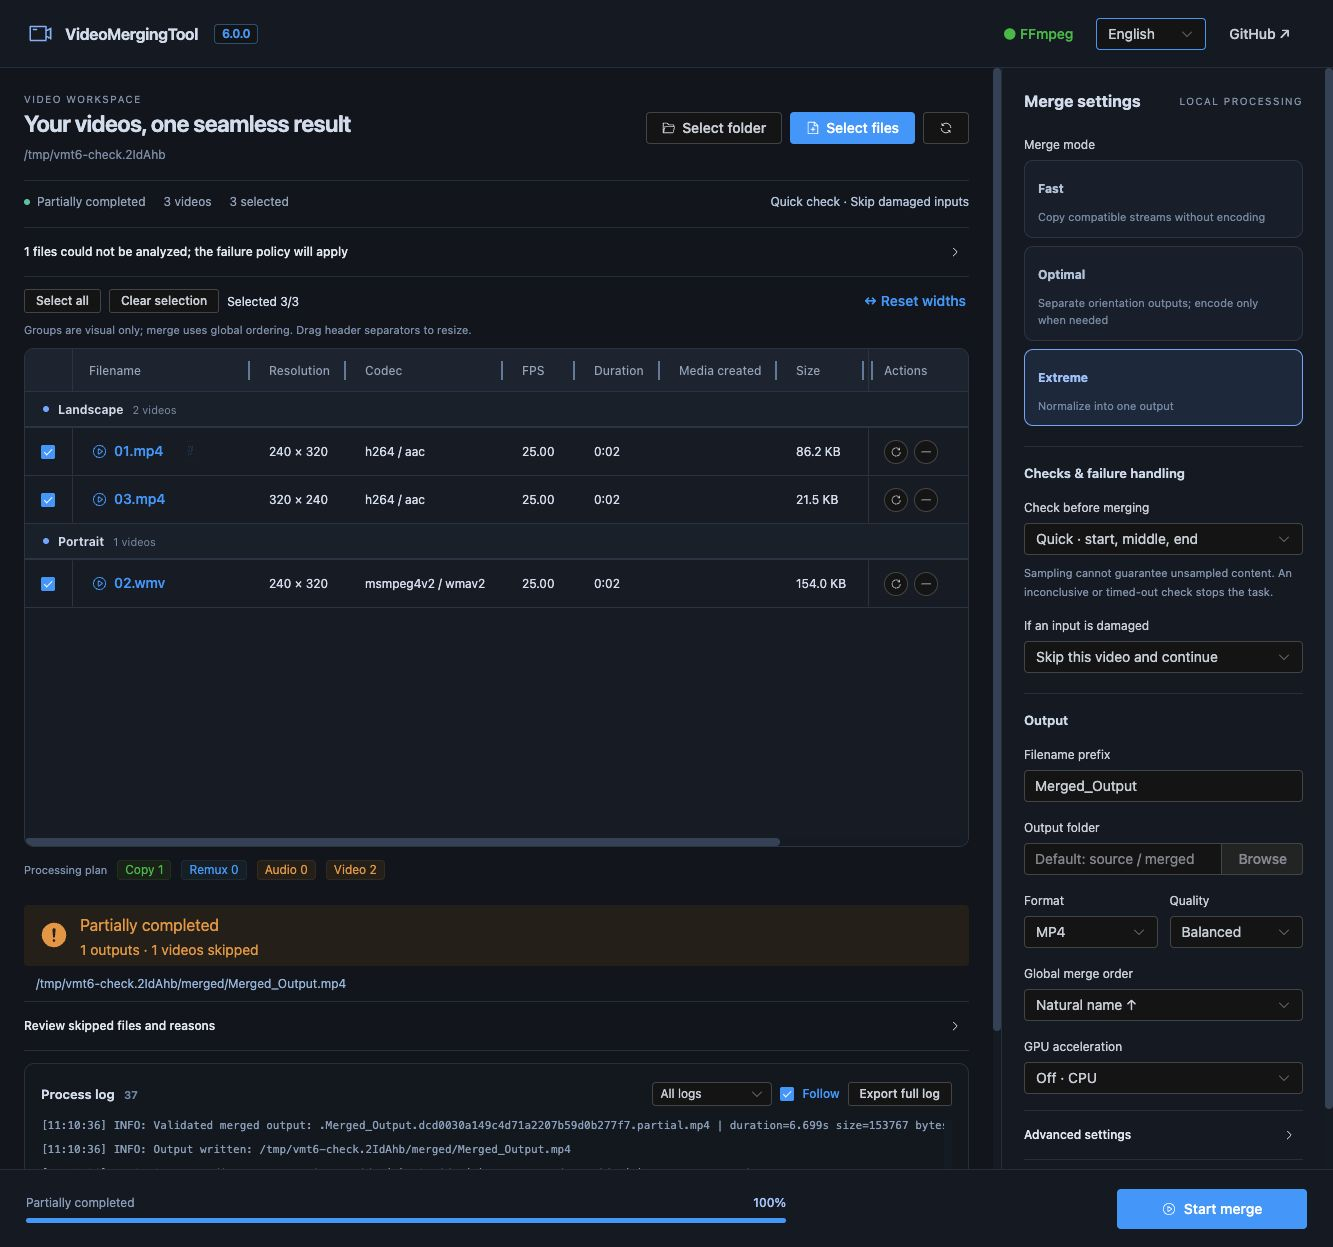
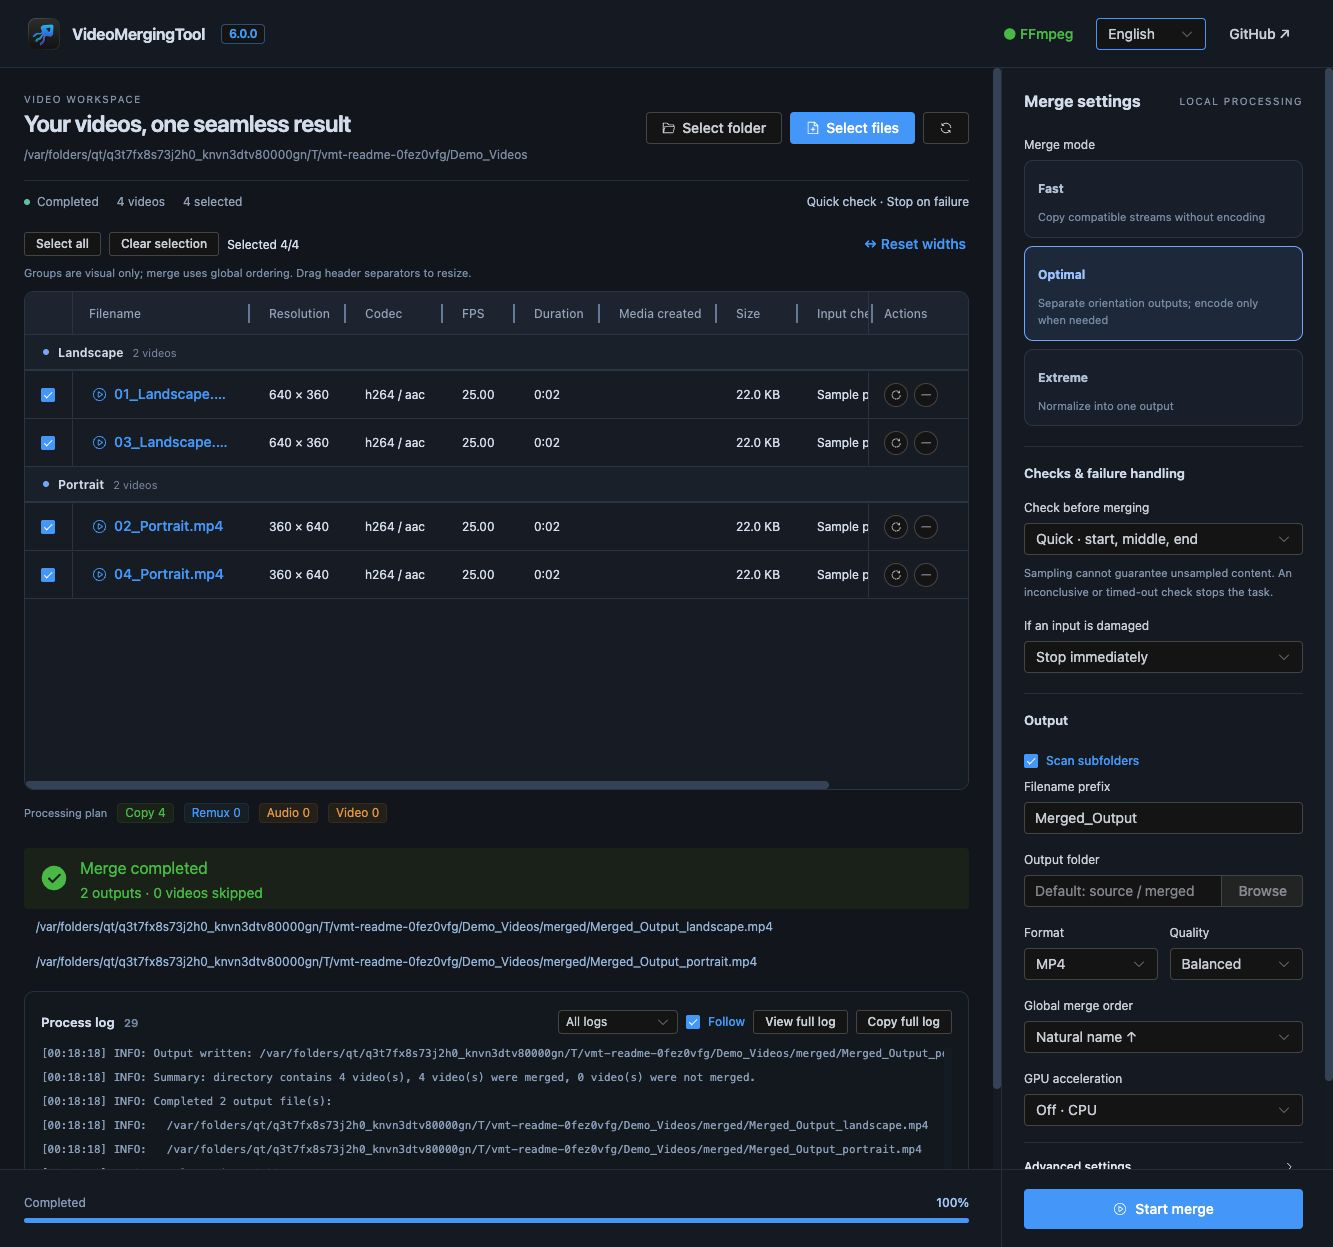
docs: refresh 6.0.0 README screenshots and document development fixes
Replace Chinese and English screenshots with actual demo scans and completed merges showing the original icon, clipboard controls, Output settings and aligned footer. Document fixes and mark 6.0.0 as under validation without changing its version or creating a Release.

Validation: 153 Python tests, 6 frontend tests, frontend build and whitespace checks pass.

diff --git a/README.en.md b/README.en.md
@@ -20,7 +20,7 @@
 
 VideoMergingTool helps you combine video clips into longer videos without uploading your files anywhere. It is designed for everyday desktop use: install the app, choose a folder or specific video files, review the detected videos, pick a merge mode, and start.
 
-Current version: `6.0.0`. See the [6.0.0 release notes (Chinese)](docs/releases/v6.0.0.md) and download installers from the [Releases page](https://github.com/yibailiu/VideoMergingTool/releases).
+Current development version: `6.0.0` (fixes under validation; version unchanged). See the [6.0.0 notes (Chinese)](docs/releases/v6.0.0.md). Published installer availability is shown on the [Releases page](https://github.com/yibailiu/VideoMergingTool/releases).
 
 Version 6 rebuilds the desktop UI with Vue 3, Element Plus, and AG Grid Community. It adds sampled/full input checks and an explicit stop-or-skip policy for damaged videos. See [6.0.0 notes](docs/6.0.0.md) for architecture and development details.
 
@@ -28,7 +28,7 @@ The packaged Windows and macOS apps include FFmpeg and FFprobe, so normal users 
 
 ## What It Does
 <p align="center">
-  <img src="assets/screenshots/screenshot_6_en.png" width="960" alt="VideoMergingTool 6.0.0 workspace and task result">
+  <img src="assets/screenshots/screenshot_6_en.png" width="960" alt="Updated 6.0.0 workspace with the original app icon, full-log copying, subfolder scanning under Output, and aligned progress bar">
 </p>
 
 - Scans a folder or lets you select one or more specific videos; supports `mp4`, `mkv`, `mov`, `avi`, `ts`, `m4v`, `flv`, `webm`, and `wmv`
@@ -42,7 +42,7 @@ The packaged Windows and macOS apps include FFmpeg and FFprobe, so normal users 
 - Lets you choose output folder, temp folder, language, merge mode, GPU option, and whether to keep temp files
 - Shows complete process logs and progress inside the app window
 - Offers metadata, sampled, or full decode checks before merging; a sampled pass does not guarantee the entire video is undamaged
-- Can stop on damaged inputs or skip them and continue, with a partial-completion result, skipped-file reasons, and full log export
+- Can stop on damaged inputs or skip them and continue, with partial-completion results, skipped-file reasons, full-log clipboard copying, and a selectable full-log view
 - Runs locally in a desktop window, without opening an external browser
 
 ## Download

diff --git a/README.md b/README.md
@@ -20,7 +20,7 @@
 
 VideoMergingTool 用来把多个视频批量合并成更长的视频。它面向普通桌面用户设计：安装应用，选择视频文件夹或直接选择若干视频，确认识别结果，选择合并模式，然后开始合并。
 
-当前版本：`6.0.0`。更新内容见 [6.0.0 发布说明](docs/releases/v6.0.0.md)，安装包见 [Releases 页面](https://github.com/yibailiu/VideoMergingTool/releases)。
+当前开发版本：`6.0.0`（修复验证中，版本号不变）。更新内容见 [6.0.0 说明](docs/releases/v6.0.0.md)，安装包发布状态以 [Releases 页面](https://github.com/yibailiu/VideoMergingTool/releases) 为准。
 
 6.0.0 使用 Vue 3、Element Plus 与 AG Grid Community 重构桌面界面，并增加视频快速抽检、完整解码检查，以及“损坏时停止／跳过继续”的任务策略。详细行为和开发说明见 [6.0.0 说明](docs/6.0.0.md)。
 
@@ -28,7 +28,7 @@ Windows 和 macOS 安装包已经内置 FFmpeg / FFprobe，普通用户不需要
 
 ## 它能做什么
 <p align="center">
-  <img src="assets/screenshots/screenshot_6_zhCN.png" width="960" alt="VideoMergingTool 6.0.0 视频工作区与任务结果">
+  <img src="assets/screenshots/screenshot_6_zhCN.png" width="960" alt="VideoMergingTool 6.0.0 修复后的工作区：原应用图标、完整日志复制、输出区递归扫描和对齐的进度栏">
 </p>
 
 - 扫描文件夹或直接选择一个、多个视频；支持 `mp4`、`mkv`、`mov`、`avi`、`ts`、`m4v`、`flv`、`webm`、`wmv`
@@ -42,7 +42,7 @@ Windows 和 macOS 安装包已经内置 FFmpeg / FFprobe，普通用户不需要
 - 可设置输出目录、临时目录、界面语言、合并模式、GPU 选项、是否保留临时文件
 - 在应用窗口内显示完整的处理日志和进度
 - 开始前可选择基础检查、快速抽检或完整解码检查；快速抽检通过不代表整个文件无损坏
-- 损坏视频可选择停止任务或跳过继续；完成后显示输出文件、跳过清单和原因，并可导出完整日志
+- 损坏视频可选择停止任务或跳过继续；完成后显示输出文件、跳过清单和原因，可复制完整日志到剪贴板，也可在完整日志窗口全选复制
 - 作为桌面应用运行，不依赖浏览器打开
 
 ## 下载

diff --git a/README.zh-CN.md b/README.zh-CN.md
@@ -20,13 +20,13 @@
 
 VideoMergingTool 用来把一个文件夹里的多个视频批量合并成更长的视频。它面向普通桌面用户设计：安装应用，选择视频文件夹，确认识别结果，选择合并模式，然后开始合并。
 
-当前版本为 `6.0.0`，使用 Vue 3、Element Plus 和 AG Grid Community 重构界面，支持直接选择文件、视频抽检和损坏时跳过继续。最新完整说明见 [中文首页](README.md)、[6.0.0 发布说明](docs/releases/v6.0.0.md) 和 [架构说明](docs/6.0.0.md)。
+当前开发版本为 `6.0.0`（修复验证中，版本号不变），使用 Vue 3、Element Plus 和 AG Grid Community 重构界面，支持直接选择文件、视频抽检和损坏时跳过继续。最新完整说明见 [中文首页](README.md)、[6.0.0 说明](docs/releases/v6.0.0.md) 和 [架构说明](docs/6.0.0.md)。
 
 Windows 和 macOS 安装包已经内置 FFmpeg / FFprobe，普通用户不需要手动安装 FFmpeg，也不需要配置环境变量。
 
 ## 它能做什么
 <p align="center">
-  <img src="assets/screenshots/screenshot_6_zhCN.png" width="960" alt="VideoMergingTool 6.0.0 视频工作区与任务结果">
+  <img src="assets/screenshots/screenshot_6_zhCN.png" width="960" alt="VideoMergingTool 6.0.0 修复后的工作区：完整日志复制、输出区递归扫描和对齐的进度栏">
 </p>
 
 - 扫描文件夹中的常见视频格式，包括 `mp4`、`mkv`、`mov`、`avi`、`ts`、`m4v`、`flv`、`webm`
@@ -36,7 +36,7 @@ Windows 和 macOS 安装包已经内置 FFmpeg / FFprobe，普通用户不需要
 - 支持横屏和竖屏视频
 - 需要统一画面尺寸时，会补边而不是裁切，尽量保留完整画面
 - 可设置输出目录、临时目录、界面语言、合并模式、GPU 选项、是否保留临时文件
-- 在应用窗口内显示处理日志和进度
+- 在应用窗口内显示处理日志和进度，支持选中文字、复制完整日志，以及打开可全选的完整日志窗口
 - 作为桌面应用运行，不依赖浏览器打开
 
 ## 下载

diff --git a/docs/releases/v6.0.0.md b/docs/releases/v6.0.0.md
@@ -2,6 +2,14 @@
 
 本次为大版本更新：重构桌面工作区，增加视频完整性检查和损坏文件处理策略，并统一 macOS 安装包。
 
+## dev 修订（版本号保持 6.0.0）
+
+- 修正可变帧率素材在完整性检查中被空输出时间戳提示误判的问题，真实解码错误、截断和非零退出仍会阻断任务。
+- 改用系统剪贴板复制完整日志，开启桌面文本选择，并提供可全选的完整日志窗口作为后备。
+- 将递归扫描移至“输出”，恢复原应用图标；底栏与主内容共享响应式列宽、边距和滚动条占位。
+- 统一扫描路径与检查结果的路径标识，修正 macOS 路径别名导致检查状态不更新的问题。
+- 更新中英文实际运行截图；此次仅更新 dev，不重新创建 Release。
+
 ## 全新的桌面工作区
 
 - 使用 Vue 3、Element Plus 和 AG Grid Community 重构界面；安装包内置前端资源，无需用户安装 Node.js，也不依赖 CDN。
@@ -9,7 +17,7 @@
 - 点击文件名可使用系统默认播放器预览；可标记顺时针旋转 90°、排除或恢复视频，不修改源文件。
 - 保留横屏、竖屏等视觉分组；实际合并仍使用统一排序规则。旋转、排除不会让视频在表格中跳组移动。
 - 文件名列使用剩余空间，其他列按内容自适应；支持拖动调整、保存和重置列宽。
-- 日志采用虚拟列表，支持筛选警告、错误，以及导出完整处理日志。
+- 日志采用虚拟列表，支持筛选警告、错误，以及复制和查看完整处理日志。
 
 ## 视频检查与任务容错
 

diff --git a/docs/6.0.0.md b/docs/6.0.0.md
@@ -19,7 +19,7 @@
 - 磁盘空间、输出权限、编码器配置等任务级故障停止任务。不能定位到坏源文件的拼接错误也会停止。
 - 剩余文件保留全局排序中的相对位置。视觉分组不参与生成合并顺序；旋转、排除不移动行。
 - 视频表格使用 AG Grid Community，自行渲染方向分隔行，不使用 Enterprise 行分组。文件名使用剩余空间，其他列按全部已加载数据计算内容下限；操作列固定右侧。手动列宽会保存，可重置。
-- 日志界面使用虚拟列表，可筛选警告和错误并导出完整日志。
+- 日志界面使用虚拟列表，可筛选警告和错误；完整日志可复制到系统剪贴板，或打开可全选复制的完整日志窗口。桌面窗口开启文本选择，选取日志时暂停自动跟随。
 - 结果分为全部完成、部分完成、失败、已取消。跳过清单包含源文件、阶段和原因，可重新载入失败文件。
 - 成片先写入同目录的临时文件，校验通过后发布。失败不会覆盖已有成片。
 
